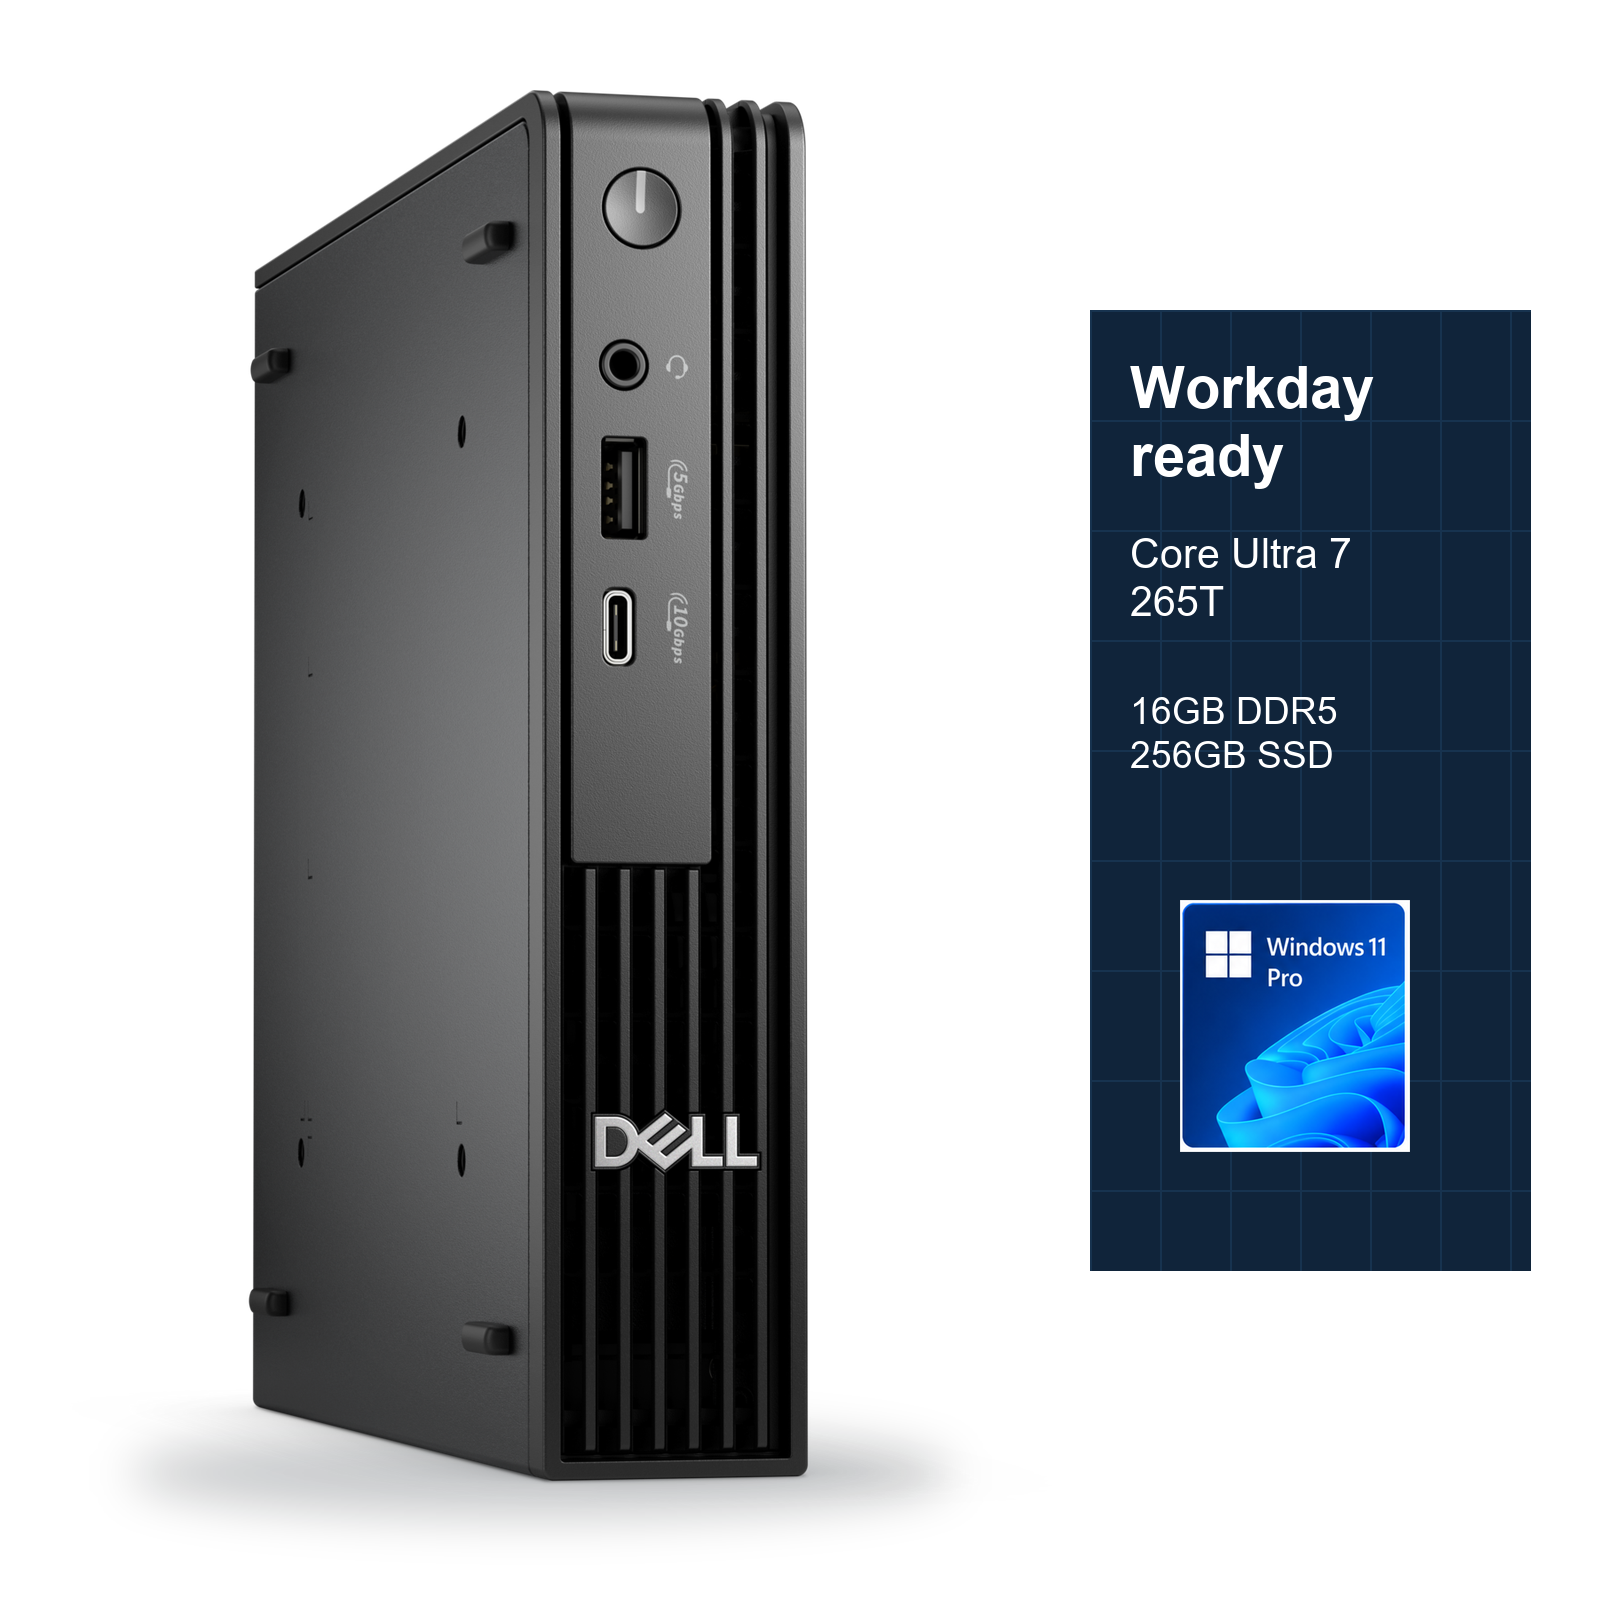
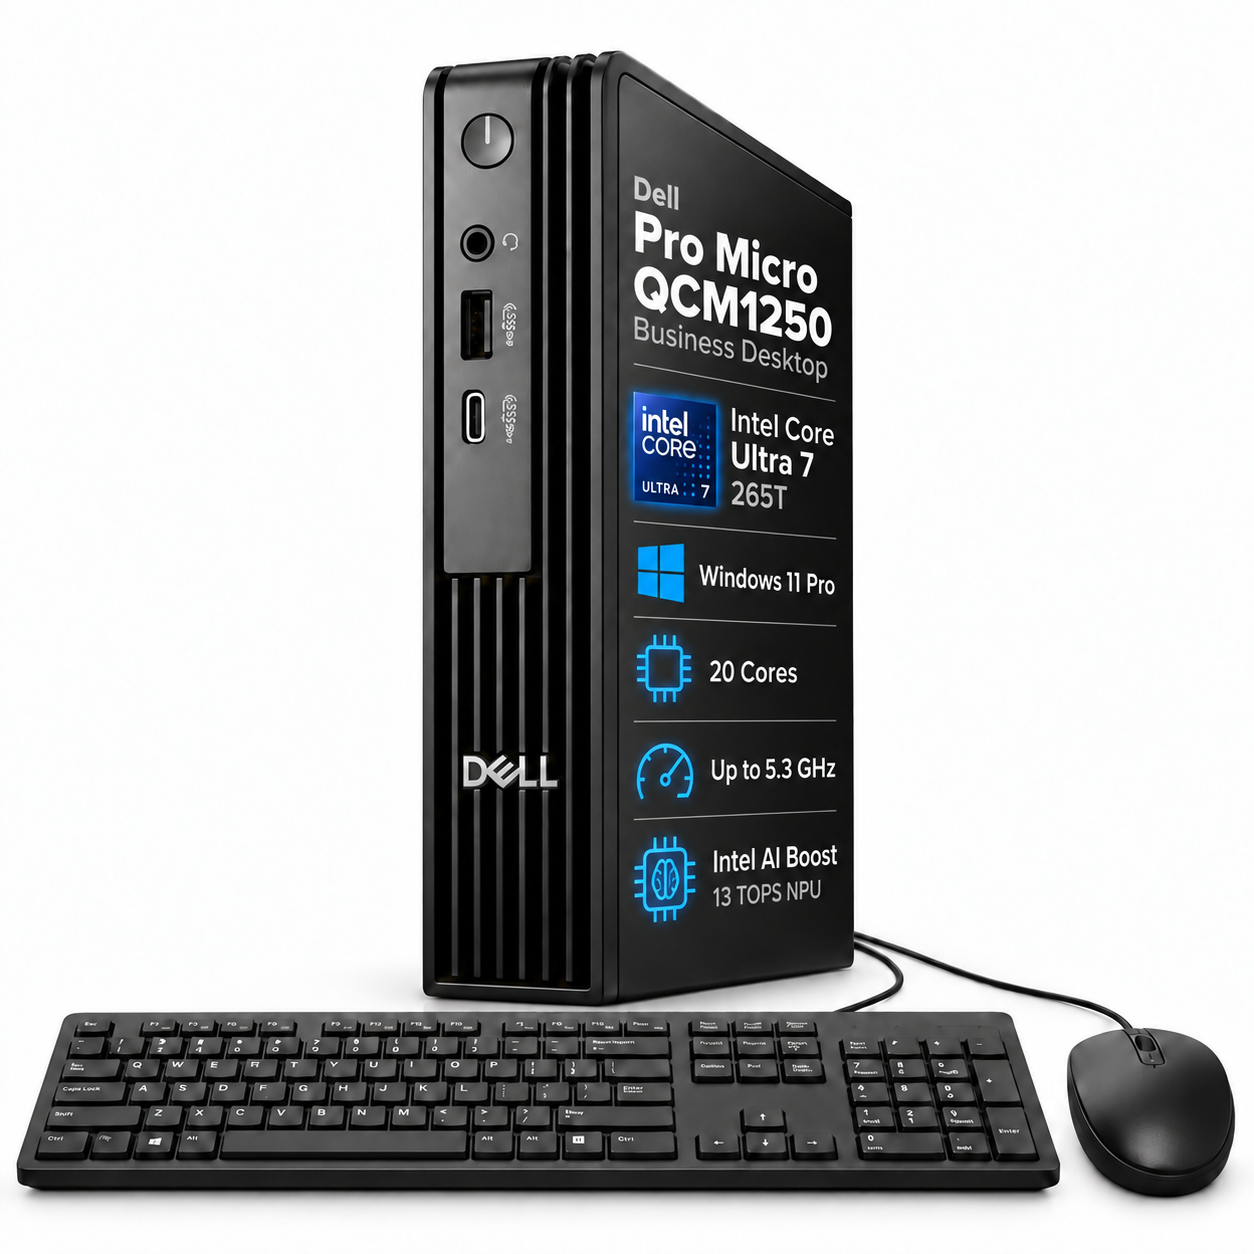
Replace VD-744 enhanced angle with user-selected QCM1250 image

diff --git a/product generated photo/VD-744/image-manifest.md b/product generated photo/VD-744/image-manifest.md
@@ -5,8 +5,8 @@ Style: B01/BG01, directly approved by the user 2026-10-13.
 Policy: 2026-10-02 baseline, 2026-10-05 warranty/size updates, 2026-10-06 faithful-source reproduction, 2026-10-07 HTML format.
 Form factor: STANDALONE_DESKTOP. Boundary: DESKTOP_GRAPHIC_SAFE_ZONE.
 OEM rights: USER_CONFIRMED_CATALOG_WIDE, MegaPC / J-Tech Digital. Exact official source URLs/hashes are in the frozen production pack.
-Product layers are original OEM photos, alpha-trimmed and proportionally downscaled; no AI hardware, added physical marks or unseen angle was synthesized. AI created only the empty PT02 environment and the approved preview.
-Windows graphics are fixed repository package/package for enhanced alternatives and one fixed OS-line lockup on PT03. They do not mean retail software media is included.
+Except for the user-approved angle import described below, product layers are original OEM photos, alpha-trimmed and proportionally downscaled; no AI hardware, added physical marks or unseen angle was synthesized. AI created only the empty PT02 environment and the approved preview.
+Except for the user-approved angle import, Windows graphics are fixed repository package/package for enhanced alternatives and one fixed OS-line lockup on PT03. They do not mean retail software media is included.
 
 ## Current slots
 
@@ -14,7 +14,7 @@ Windows graphics are fixed repository package/package for enhanced alternatives 
 | --- | --- | --- | --- |
 | MAIN-STRICT.jpg | 1600 × 1600 | 147316275b36e2c9bfff76ff62f8647478571ebd7d84b5933bf54545e8c12858 | Original scene/task/identity context |
 | MAIN-ENHANCED-FRONT-CANDIDATE.png | 1000 × 1000 | 11ac77b97799e6fcd75f4653cba13549df5b939393ef185d23e0a9c1a6957cdb | base.cpu, base.ram, base.ssd, base.os |
-| MAIN-ENHANCED-THREE-QUARTER-CANDIDATE.png | 1600 × 1600 | 0ce792263a609d713ea69ed2fbf4c3476da980d213380b6d5aa8d894c7df43ed | base.cpu, base.ram, base.ssd, base.os |
+| MAIN-ENHANCED-THREE-QUARTER-CANDIDATE.png | 1254 × 1254 | eb720f70b39c393ddd73f7705c9de6bd2b9e22fa1c0117d086dd62b0298b4a3a | identity.model, base.cpu, base.os, cpu.cores, cpu.turbo, npu.peak13Tops |
 | PT01.png | 1600 × 1600 | 7ed43193cc4e34df4555555a06f102de749e077a28eaa666f4f20e1df5154aa5 | appearance.black, appearance.restrained |
 | PT02.png | 1200 × 1200 | 4fc00053a629049709c04d1c3391fe128b4518bb6a371a8037ec87839bf615e0 | use.officeScene |
 | PT03.png | 1600 × 1600 | c3cd32898bf0f230759279e20f42e1d403f9a212102e5a66af40653857c43303 | base.cpu, base.gpu, base.ram, base.ssd, base.os |
@@ -32,3 +32,7 @@ Semantic review includes all 28 PT pairs with explicit manual rationale and no i
 Two identical deterministic renders produced identical eleven main/unbranded bytes; frozen source layers/font hashes and renderer are retained.
 Exact unit optional rear-module/pack-out/wireless module and Amazon channel eligibility remain seller pre-publication checks. The visual review certifies this truthful standard OEM reference artwork, not a physical-unit inspection or Amazon permission.
 No Seller Central publication was performed.
+
+## User-approved angle replacement — 2026-10-13
+
+The user selected the frozen AI side-panel marketing image with keyboard/mouse and explicitly requested replacing only the enhanced three-quarter candidate in GitHub. The model is complete and Windows 11 Pro restored; RAM/SSD are omitted. See approved-angle-import.json for current hash, user authorization, prompt and limitations. The remaining ten image hashes are unchanged. Earlier deterministic render, brand/fidelity PASS and GitHub verification records apply to their recorded prior bytes/commit, not this new image. This is a requested image import, not full-gallery strict QA or Amazon MAIN approval.
